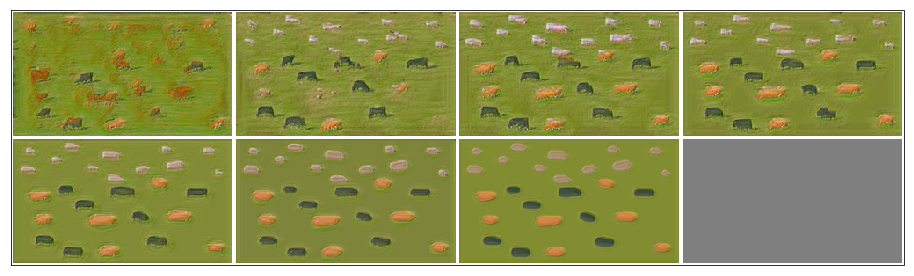
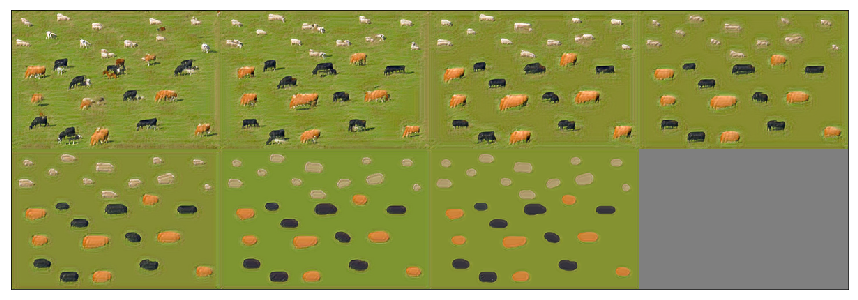
edit scale to scale + 1

diff --git a/sinGAN.py b/sinGAN.py
@@ -31,7 +31,7 @@ class SinGAN(nn.Module):
         self.num_scale = self.config['num_scale']
         self.scale_factor = self.config['scale_factor']
 
-        self.name = config['path_data'].split('/')[-1].split('.')[0] + "_" + config['save_name']
+        self.name = config['path_input'].split('/')[-1].split('.')[0] + "_" + config['save_name']
         self.path_model = os.path.join(config['path_model_save'], self.name)
         self.path_sample = os.path.join(config['path_sample_save'], self.name)
 
@@ -42,9 +42,10 @@ class SinGAN(nn.Module):
 
         # --- pyramids
         width, height, _ = self.input.shape
-        self.height_pyramid, self.width_pyramid, self.real_pyramid = [], [], []
-        for scale in range(self.num_scale - 1, -1, -1):
+        self.multiplier_pyramid, self.height_pyramid, self.width_pyramid, self.real_pyramid = [], [], [], []
+        for scale in range(self.num_scale, -1, -1):
             multiplier = (1 / self.scale_factor) ** scale
+            self.multiplier_pyramid.append(multiplier)
 
             height_scaled = int(round(height * multiplier))
             width_scaled = int(round(width * multiplier))
@@ -57,7 +58,7 @@ class SinGAN(nn.Module):
             self.real_pyramid.append(processed.to(self.device, torch.float))
 
         self.noise_optimal_pyramid = []
-        for scale in range(self.num_scale):
+        for scale in range(self.num_scale + 1):
             if not scale:
                 noise = torch.randn_like(self.real_pyramid[scale]).to(self.device)
             else:
@@ -65,7 +66,7 @@ class SinGAN(nn.Module):
             self.noise_optimal_pyramid.append(noise)
 
         self.generator_pyramid, self.discriminator_pyramid = [], []
-        for scale in range(self.num_scale):
+        for scale in range(self.num_scale + 1):
             dim = 32 * 2 ** (scale // 4)  # increase dim by a factor of 2 every 4 scales
             if self.device.type == 'cuda':
                 self.generator_pyramid.append(Generator(input_dim=3, dim=dim, n_layers=5).cuda())
@@ -90,7 +91,7 @@ class SinGAN(nn.Module):
         )
         scale_factor = np.power(min_dim / self.config['coarsest_dim'], 1 / num_scale)
 
-        self.config['num_scale'] = num_scale
+        self.config['num_scale'] = num_scale  # TODO : +1
         self.config['scale_factor'] = scale_factor
 
     def get_sigma(self, scale, real):
@@ -115,7 +116,7 @@ class SinGAN(nn.Module):
 
     def generate_fake_image(self, scale):
         if scale == -1:
-            scale = self.num_scale - 1
+            scale = self.num_scale
 
         fake_image = None
         for s in range(scale + 1):
@@ -132,7 +133,7 @@ class SinGAN(nn.Module):
 
     def generate_recon_image(self, scale):
         if scale == -1:
-            scale = self.num_scale - 1
+            scale = self.num_scale
 
         recon_image = None
         for s in range(scale + 1):
@@ -219,16 +220,16 @@ class SinGAN(nn.Module):
 
     def train(self, init_scale=0):
         print("Start sinGAN Training - {}, {} scales".format(self.name, self.num_scale))
-        for scale in range(init_scale, self.num_scale):
+        for scale in range(init_scale, self.num_scale + 1):
             for step in range(self.config['n_iter']):
                 if not step:
-                    print("scale", scale + 1, "-" * 100)
+                    print("scale", scale, "-" * 100)
                     self.assign_network_at_scale_begin(scale)
                     self.assign_parameters_at_scale_begin(scale)
 
                 self.train_single_scale_pyramid(scale)
                 if not (step + 1) % self.config['log_iter']:
-                    self.print_log(scale + 1, step + 1)
+                    self.print_log(scale, step + 1)
 
             self.save_image = self.test_samples_scale(scale, save=True)
             self.save_models(scale)
@@ -262,38 +263,35 @@ class SinGAN(nn.Module):
             'sigma_pyramid': self.sigma_pyramid,
             'real_pyramid': self.real_pyramid,
             'current_scale': scale,
-            'current_optimizer_d': self.optimizer_d.state_dict(),
-            'current_optimizer_g': self.optimizer_g.state_dict(),
         }
 
         save_name = os.path.join(self.path_model, "scale_{:02}".format(scale))
         torch.save(state, save_name)
 
-    def load_models(self, scale, train=True):
+    def load_models(self, scale, train=False):
         if scale == -1:
-            scale = self.num_scale - 1
+            scale = self.num_scale
 
         save_name = os.path.join(self.path_model, "scale_{:02}".format(scale))
         checkpoint = torch.load(save_name)
 
         # weight
+        self.scale = checkpoint['current_scale']
         self.generator_pyramid = checkpoint['generator_pyramid']
         self.discriminator_pyramid = checkpoint['discriminator_pyramid']
         self.noise_optimal_pyramid = checkpoint['noise_optimal_pyramid']
-        self.sigma_pyramid = checkpoint['sigma_pyramid']
         self.real_pyramid = checkpoint['real_pyramid']
-        self.scale = checkpoint['current_scale']
-
         if train:
-            self.optimizer_d.load_state_dict(checkpoint['current_optimizer_d'])
-            self.optimizer_g.load_state_dict(checkpoint['current_optimizer_g'])
+            self.sigma_pyramid = checkpoint['sigma_pyramid'][:self.scale]
+        else:
+            self.sigma_pyramid = checkpoint['sigma_pyramid']
 
     def resume_train(self, scale=False):
         if not scale:
             last_model_path = sorted(glob.glob(os.path.join(self.path_model, '*')))[-1]
             scale = int(last_model_path.split('/')[-1][-2:])
 
-        self.load_models(scale, True)
+        self.load_models(scale, train=True)
         print("Resume Training - scale: ", scale)
         self.train(scale)
 

diff --git a/harmonization.py b/harmonization.py
@@ -14,15 +14,20 @@ class Harmonization(SinGAN):
     def __init__(self, config):
         super().__init__(config)
 
-        naive_img = plt.imread(os.path.join(config['path_dataset_root'], config['path_naive_data']))
+        naive_img = plt.imread(os.path.join(config['path_dataset_root'], config['path_naive']))
         self.naive_img = normalize_image(naive_img)
-        mask = plt.imread(os.path.join(config['path_dataset_root'], config['path_mask_data']))
+        mask = plt.imread(os.path.join(config['path_dataset_root'], config['path_mask']))[..., :3]
         self.mask = torch.tensor(np.transpose(mask, [2, 0, 1])).to(self.device, torch.float)  # [np.newaxis])
 
-        self.naive_pyramid = []
-        for i in range(self.num_scale):
-            height_scaled = self.height_pyramid[i]
-            width_scaled = self.width_pyramid[i]
+        self.naive_height_pyramid, self.naive_width_pyramid, self.naive_pyramid = [], [], []
+        width, height, _ = self.naive_img.shape
+        for scale in range(self.num_scale + 1):
+            multiplier = self.multiplier_pyramid[scale]
+            height_scaled = int(round(height * multiplier))
+            width_scaled = int(round(width * multiplier))
+
+            self.naive_height_pyramid.append(height_scaled)
+            self.naive_width_pyramid.append(width_scaled)
 
             processed = cv2.resize(self.naive_img, (height_scaled, width_scaled))
             processed = torch.tensor(np.transpose(processed, [2, 0, 1])[np.newaxis])
@@ -30,10 +35,10 @@ class Harmonization(SinGAN):
 
     def generate_harmonization(self, init_scale):
         if init_scale == -1:
-            init_scale = self.num_scale - 1
+            init_scale = self.num_scale
 
         self.harmonization_pyramid = []  # just for enjoy
-        for scale in range(init_scale, self.num_scale):
+        for scale in range(init_scale, self.num_scale + 1):
             generator = self.generator_pyramid[scale]
             noise_optimal = self.noise_optimal_pyramid[scale]
             sigma = self.sigma_pyramid[scale]
@@ -43,7 +48,9 @@ class Harmonization(SinGAN):
                 harmonization = generator(naive, noise_optimal * sigma)
 
             else:
-                harmonization = nn.Upsample((self.width_pyramid[scale], self.height_pyramid[scale]))(harmonization)
+                harmonization = nn.Upsample(
+                    (self.naive_width_pyramid[scale], self.naive_height_pyramid[scale])
+                )(harmonization)
                 harmonization = generator(harmonization, noise_optimal * sigma)
 
             self.harmonization_pyramid.append(harmonization)
@@ -62,13 +69,12 @@ class Harmonization(SinGAN):
 
                 save_image, _, _ = reshape_batch_torch(
                     torch.cat(
-                        [self.generate_harmonization(scale).clamp(-1, 1) for scale in range(self.num_scale)]),
+                        [self.generate_harmonization(scale).clamp(-1, 1) for scale in range(1, self.num_scale + 1)]),
                     padding=2, n_rows=n_rows, n_cols=n_cols
                 )
 
             else:
-                harmonizations = [self.generate_harmonization(scale).clamp(-1, 1) for scale in
-                                  range(self.num_scale)]
+                harmonizations = [self.generate_harmonization(scale).clamp(-1, 1) for scale in range(1, self.num_scale + 1)]
                 harmonizations += [torch.zeros_like(harmonizations[0])]
                 save_image, _, _ = reshape_batch_torch(
                     torch.cat(harmonizations), n_rows=2, n_cols=-1

diff --git a/paint_to_image.py b/paint_to_image.py
@@ -15,13 +15,18 @@ class Paint2Image(SinGAN):
     def __init__(self, config):
         super().__init__(config)
 
-        naive_img = plt.imread(os.path.join(config['path_dataset_root'], config['path_naive_data']))
+        naive_img = plt.imread(os.path.join(config['path_dataset_root'], config['path_naive']))
         self.naive_img = normalize_image(naive_img)
 
-        self.naive_pyramid = []
-        for i in range(self.num_scale):
-            height_scaled = self.height_pyramid[i]
-            width_scaled = self.width_pyramid[i]
+        self.naive_height_pyramid, self.naive_width_pyramid, self.naive_pyramid = [], [], []
+        width, height, _ = self.naive_img.shape
+        for scale in range(self.num_scale + 1):
+            multiplier = self.multiplier_pyramid[scale]
+            height_scaled = int(round(height * multiplier))
+            width_scaled = int(round(width * multiplier))
+
+            self.naive_height_pyramid.append(height_scaled)
+            self.naive_width_pyramid.append(width_scaled)
 
             processed = cv2.resize(self.naive_img, (height_scaled, width_scaled))
             processed = torch.tensor(np.transpose(processed, [2, 0, 1])[np.newaxis])
@@ -29,10 +34,10 @@ class Paint2Image(SinGAN):
 
     def generate_paint2image(self, init_scale):
         if init_scale == -1:
-            init_scale = self.num_scale - 1
+            init_scale = self.num_scale
 
         self.paint2image_pyramid = []  # just for enjoy
-        for scale in range(init_scale, self.num_scale):
+        for scale in range(init_scale, self.num_scale + 1):
             generator = self.generator_pyramid[scale]
             noise_optimal = self.noise_optimal_pyramid[scale]
             sigma = self.sigma_pyramid[scale]
@@ -42,7 +47,9 @@ class Paint2Image(SinGAN):
                 paint2image = generator(naive, noise_optimal * sigma)
 
             else:
-                paint2image = nn.Upsample((self.width_pyramid[scale], self.height_pyramid[scale]))(paint2image)
+                paint2image = nn.Upsample(
+                    (self.naive_width_pyramid[scale], self.naive_height_pyramid[scale])
+                )(paint2image)
                 paint2image = generator(paint2image, noise_optimal * sigma)
 
             self.paint2image_pyramid.append(paint2image)
@@ -59,12 +66,11 @@ class Paint2Image(SinGAN):
 
                 save_image, _, _ = reshape_batch_torch(
                     torch.cat(
-                        [self.generate_paint2image(scale).clamp(-1, 1) for scale in range(self.num_scale)]),
+                        [self.generate_paint2image(scale).clamp(-1, 1) for scale in range(1, self.num_scale + 1)]),
                     padding=2, n_rows=n_rows, n_cols=n_cols
                 )
             else:
-                paint2images = [self.generate_paint2image(scale).clamp(-1, 1) for scale in
-                                range(self.num_scale)]
+                paint2images = [self.generate_paint2image(scale).clamp(-1, 1) for scale in range(1, self.num_scale + 1)]
                 paint2images += [torch.zeros_like(paint2images[0])]
                 save_image, _, _ = reshape_batch_torch(
                     torch.cat(paint2images), n_rows=2, n_cols=-1

diff --git a/editing.py b/editing.py
@@ -18,10 +18,15 @@ class Editing(SinGAN):
         naive_img = plt.imread(os.path.join(config['path_dataset_root'], config['path_naive']))
         self.naive_img = normalize_image(naive_img)
 
-        self.naive_pyramid = []
-        for i in range(self.num_scale):
-            height_scaled = self.height_pyramid[i]
-            width_scaled = self.width_pyramid[i]
+        self.naive_height_pyramid, self.naive_width_pyramid, self.naive_pyramid = [], [], []
+        width, height, _ = self.naive_img.shape
+        for scale in range(self.num_scale + 1):
+            multiplier = self.multiplier_pyramid[scale]
+            height_scaled = int(round(height * multiplier))
+            width_scaled = int(round(width * multiplier))
+
+            self.naive_height_pyramid.append(height_scaled)
+            self.naive_width_pyramid.append(width_scaled)
 
             processed = cv2.resize(self.naive_img, (height_scaled, width_scaled))
             processed = torch.tensor(np.transpose(processed, [2, 0, 1])[np.newaxis])
@@ -29,10 +34,10 @@ class Editing(SinGAN):
 
     def generate_editing(self, init_scale):
         if init_scale == -1:
-            init_scale = self.num_scale - 1
+            init_scale = self.num_scale
 
         self.editing_pyramid = []  # just for enjoy
-        for scale in range(init_scale, self.num_scale):
+        for scale in range(init_scale, self.num_scale + 1):
             generator = self.generator_pyramid[scale]
             noise_optimal = self.noise_optimal_pyramid[scale]
             sigma = self.sigma_pyramid[scale]
@@ -42,7 +47,9 @@ class Editing(SinGAN):
                 editing = generator(naive, noise_optimal * sigma)
 
             else:
-                editing = nn.Upsample((self.width_pyramid[scale], self.height_pyramid[scale]))(editing)
+                editing = nn.Upsample(
+                    (self.naive_width_pyramid[scale], self.naive_height_pyramid[scale])
+                )(editing)
                 editing = generator(editing, noise_optimal * sigma)
 
             self.editing_pyramid.append(editing)
@@ -59,11 +66,11 @@ class Editing(SinGAN):
 
                 save_image, _, _ = reshape_batch_torch(
                     torch.cat(
-                        [self.generate_editing(scale).clamp(-1, 1) for scale in range(self.num_scale)]),
+                        [self.generate_editing(scale).clamp(-1, 1) for scale in range(1, self.num_scale + 1)]),
                     padding=2, n_rows=n_rows, n_cols=n_cols
                 )
             else:
-                editings = [self.generate_editing(scale).clamp(-1, 1) for scale in range(self.num_scale)]
+                editings = [self.generate_editing(scale).clamp(-1, 1) for scale in range(1, self.num_scale + 1)]
                 editings += [torch.zeros_like(editings[0])]
                 save_image, _, _ = reshape_batch_torch(
                     torch.cat(editings), n_rows=2, n_cols=-1

diff --git a/train.py b/train.py
@@ -12,9 +12,6 @@ from editing import Editing
 from super_resolution import SuperResolution
 
 
-# TODO
-# 1. SR 에서 학습할때 z_rec 넣는 방법
-
 @click.command()
 @click.option('--config', type=str, default='./config/random_sample.yaml', help='Path to the config file.')
 @click.option('--mode', type=str, default='random_sample',
@@ -24,7 +21,6 @@ def main(config, mode, resume):
     seed_random()
     set_numpy_precision()
 
-    # model
     if mode == 'random_sample':
         model_type = SinGAN
     elif mode == 'paint2image':
@@ -39,7 +35,6 @@ def main(config, mode, resume):
         print("Invalid Parameter")
         raise ValueError
 
-    # model
     model = model_type(get_config(config))
     if resume:
         model.resume_train()

diff --git a/super_resolution.py b/super_resolution.py
@@ -32,7 +32,7 @@ class SuperResolution(SinGAN):
             generator_0 = self.generator_pyramid[-1]
             super_resolution = self.real_pyramid[-1]
             self.repo = []
-            for scale in range(self.num_scale):
+            for scale in range(self.num_scale + 1):
                 width_sr = round(width * self.scale_factor ** scale)
                 height_sr = round(height * self.scale_factor ** scale)
 

diff --git a/test.py b/test.py
@@ -20,7 +20,6 @@ def main(config, mode):
     seed_random()
     set_numpy_precision()
 
-    # model
     if mode == 'random_sample':
         model_type = SinGAN
     elif mode == 'paint2image':
